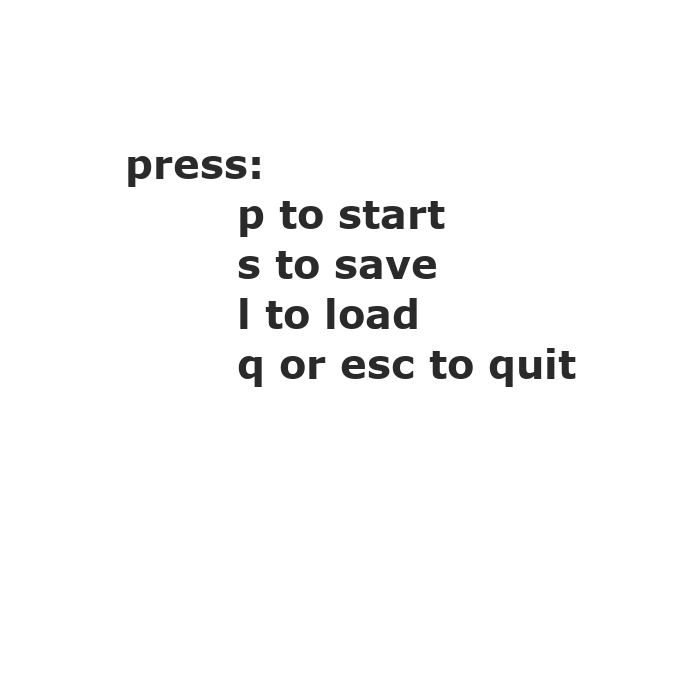
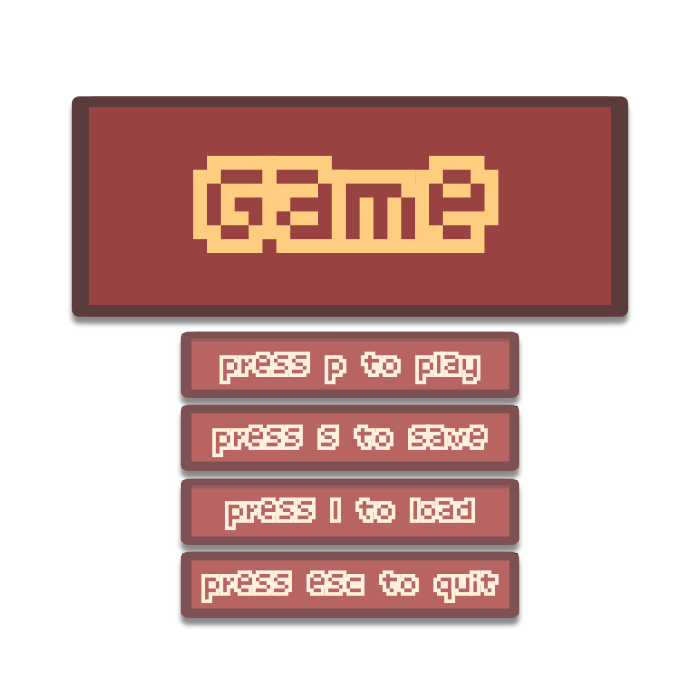
menu works kinda

diff --git a/src/main/java/UI/presenters/statePresenters/MenuStatePresenter.java b/src/main/java/UI/presenters/statePresenters/MenuStatePresenter.java
@@ -4,14 +4,19 @@ import java.awt.*;
 import java.awt.image.BufferedImage;
 
 public class MenuStatePresenter implements StatePresenter {
-    private BufferedImage buttonImage1;
+    private BufferedImage menu;
+    private BufferedImage bg;
 
-    public void setButtonImage1(BufferedImage buttonImage1) {
-        this.buttonImage1 = buttonImage1;
+    public void setMenu(BufferedImage menu) {
+        this.menu = menu;
     }
 
-    public BufferedImage getButtonImage1() {
-        return buttonImage1;
+    public void setBG(BufferedImage bg) {
+        this.bg = bg;
+    }
+
+    public BufferedImage getMenu() {
+        return menu;
     }
 
     @Override
@@ -20,6 +25,7 @@ public class MenuStatePresenter implements StatePresenter {
         int width = (int)size.getWidth();
         int height = (int)size.getHeight();
 
-        graphics.drawImage(buttonImage1, height/4, height/4, height/2, height/2, null);
+//        graphics.drawImage(bg, 0, 0, width, height, null);
+        graphics.drawImage(menu, width/6, 0, height, height, null);
     }
 }

diff --git a/src/main/java/controllers/gameStates/MenuState.java b/src/main/java/controllers/gameStates/MenuState.java
@@ -11,8 +11,7 @@ import java.awt.image.BufferedImage;
 import java.io.File;
 import java.io.IOException;
 
-// todo: after clicking done on paint it switches to crawling state
-// todo: add popup on paint where if u skip drawing the character it goes to crawling state
+
 
 public class MenuState implements State {
     StatePresenter presenter;
@@ -25,10 +24,12 @@ public class MenuState implements State {
         Settings.setFrameWidth(width);
 
         MenuStatePresenter pre = new MenuStatePresenter();
-        BufferedImage button1;
+        BufferedImage menu;
+        BufferedImage bg;
         try {
-            button1 = ImageIO.read(new File("src/main/res/temp-menu.png"));
-            pre.setButtonImage1(button1);
+            menu = ImageIO.read(new File("src/main/res/temp-menu.png"));
+            bg = ImageIO.read(new File("src/main/res/previewbg.png"));
+            pre.setMenu(menu);
         } catch (IOException e) {
             e.printStackTrace();
         }

diff --git a/src/main/java/controllers/game/Engine.java b/src/main/java/controllers/game/Engine.java
@@ -35,9 +35,9 @@ public class Engine {
 
         gameWindow = new GameWindow();
 
-        //timerStrategy = new TimerLoopStrategy(stateManager, gameWindow);
-        //timer = timerStrategy.initTimer();
-        threadStrategy = new MultithreadLoopStrategy();
+        timerStrategy = new TimerLoopStrategy(stateManager, gameWindow);
+        timer = timerStrategy.initTimer();
+//        threadStrategy = new MultithreadLoopStrategy();
     }
 
     /**
@@ -49,8 +49,8 @@ public class Engine {
         gameWindow.addGamePanel(gamePanel);
         gameWindow.addKeyListener(new Keyboard());
         gameWindow.createGameWindow();
-        threadStrategy.start();
-        //timer.start();
+//        threadStrategy.start();
+        timer.start();
 //        gameLoop();
 //        loop.start();
     }

diff --git a/src/main/java/UI/presenters/GamePanel.java b/src/main/java/UI/presenters/GamePanel.java
@@ -47,8 +47,9 @@ public class GamePanel extends JPanel{
      */
     public void drawScreen(){
         Graphics graphics = getGraphics();
+        if (graphics != null){
         graphics.drawImage(gameCanvas, 0, 0, Settings.getFrameWidth(), Settings.getFrameHeight(), null);
-        graphics.dispose();
+        graphics.dispose();};
     }
 //    protected void paintComponent(Graphics graphics){
 //        super.paintComponent(graphics);

diff --git a/src/main/java/useCases/KeyEventHandler.java b/src/main/java/useCases/KeyEventHandler.java
@@ -25,9 +25,6 @@ public class KeyEventHandler {
             case KeyEvent.VK_L:
                 // loads save
                 break;
-            case KeyEvent.VK_Q:
-                Engine.quit();
-                break;
         }
     }
 
